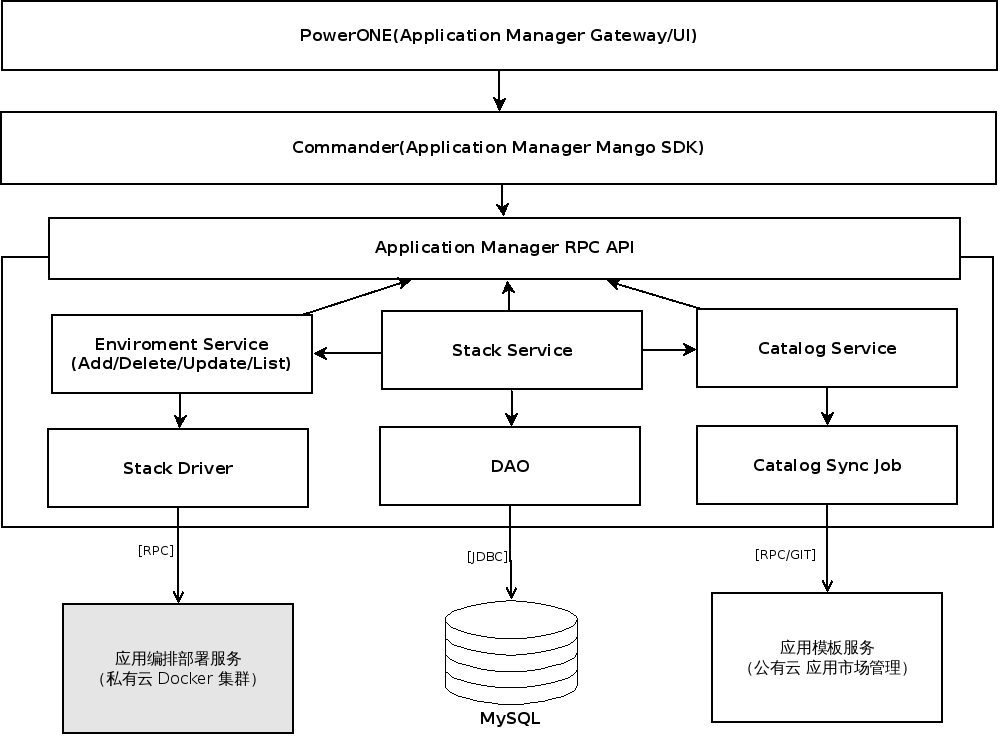
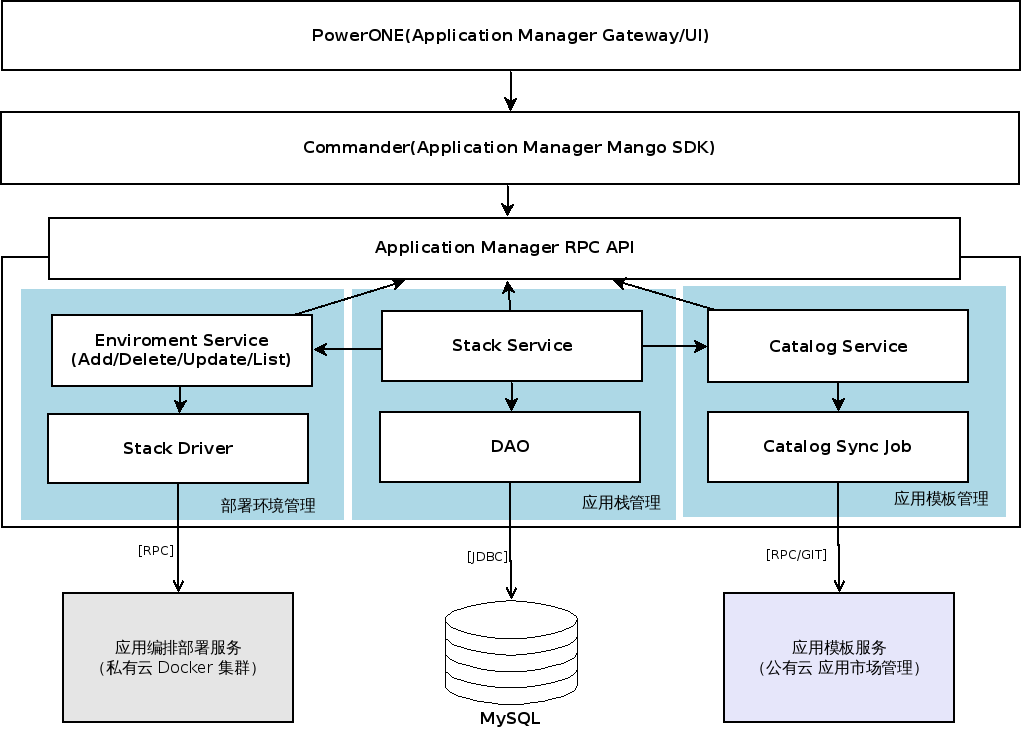
update

diff --git a/pages/dockerstudy/docker-cloud-design/README.md b/pages/dockerstudy/docker-cloud-design/README.md
@@ -18,28 +18,69 @@
 ### 功能需求
  
 1. 支持软件市场分类搜索查看；
-2. 支持软件安装、升级、卸载。
+2. 支持软件安装、升级、卸载和查询。
 
+## 概要设计
 
-## 领域模型
+### 领域模型
 
- ![app-stack-manager-architecture-model](./app-stack-manager-architecture-model.png)
+![app-stack-manager-architecture-model](./app-stack-manager-architecture-model.png)
 
-## 设计框架图
+### 设计框架图
 
 ![app-stack-manager-architecture-logical](./app-stack-manager-architecture-logical.png)
 
-### 应用创建流程图
+### 应用创建流程
 
 ![app-stack-manager-flowchart](./app-stack-manager-flowchart.png)
 
+
 ## SDK设计
+
+### 应用管理服务API设计
 
 ### ApplicationStackService
 
-```
-ApplicationStackService
+```java
+interface ApplicationStackService
+{
 
+}
+
+```
+
+### Mango SDK 设计
+Mango 层SDK 主要以满足需求为主。
+
+```java
+/* 应用模板管理*/
+class ApplicationTemplate
+{
+    public static List<ApplicationTemplate> list(ListTemplateOptions option){}
+    
+    /**
+     * 应用模板ID.
+     */
+    public getSid(){}
+
+    public getDescription(){}
+
+    /**
+     * 应用类别.
+     */
+    public getCategory(){}
+    ....
+}
+```
+
+```java
+class ApplicationStack
+{
+    public static List<ApplicationStack> list(ListStackOptions options){}
+
+    public 
+
+}
 ```
 
 ## 数据库设计
@@ -49,7 +90,12 @@ ApplicationStackService
 CREATE TABLE `caas_enviroment`(
     `id` bigint(20) NOT NULL AUTO_INCREMENT,
     `uuid` varchar(128) NOT NULL,
+    `created` datetime DEFAULT NULL,
+    `removed` datetime DEFAULT NULL,
+    `removeTime` datetime DEFAULT NULL,    
     `name` varchar(255) DEFAULT NULL,
+    `description` varchar(1024) DEFAULT NULL,
+    `state` varchar(128) NOT NULL COMMENT 'active,inactive,removed',
     `driverId` bigint(20) DEFAULT NULL,
     PRIMARY KEY (`id`),
     UNIQUE KEY `idx_caas_enviroment_uuid`(`uuid`)
@@ -58,43 +104,30 @@ CREATE TABLE `caas_enviroment`(
 CREATE TABLE `caas_stack_driver`(
     `id` bigint(20) NOT NULL AUTO_INCREMENT,
     `uuid` varchar(128) NOT NULL,
+    `created` datetime DEFAULT NULL,
+    `removed` datetime DEFAULT NULL,
+    `removeTime` datetime DEFAULT NULL,    
+    `mainClass` varchar(255) DEFAULT NULL,
+    `data` text,
     PRIMARY KEY (`id`),
     UNIQUE KEY `idx_caas_stack_driver_uuid`(`uuid`)
 );
 
-DROP TABLE IF EXISTS `load_balancer`;
-/*!40101 SET @saved_cs_client     = @@character_set_client */;
-/*!40101 SET character_set_client = utf8 */;
-CREATE TABLE `load_balancer` (
-  `id` bigint(20) NOT NULL AUTO_INCREMENT,
-  `name` varchar(255) DEFAULT NULL,
-  `account_id` bigint(20) DEFAULT NULL,
-  `kind` varchar(255) NOT NULL,
-  `uuid` varchar(128) NOT NULL,
-  `description` varchar(1024) DEFAULT NULL,
-  `state` varchar(128) NOT NULL,
-  `created` datetime DEFAULT NULL,
-  `removed` datetime DEFAULT NULL,
-  `remove_time` datetime DEFAULT NULL,
-  `data` mediumtext,
-  `global_load_balancer_id` bigint(20) DEFAULT NULL,
-  `weight` bigint(20) DEFAULT NULL,
-  `load_balancer_config_id` bigint(20) DEFAULT NULL,
-  `service_id` bigint(20) DEFAULT NULL,
-  PRIMARY KEY (`id`),
-  UNIQUE KEY `idx_load_balancer_uuid` (`uuid`),
-  KEY `fk_load_balancer__account_id` (`account_id`),
-  KEY `fk_load_balancer__global_load_balancer_id` (`global_load_balancer_id`),
-  KEY `idx_load_balancer_name` (`name`),
-  KEY `idx_load_balancer_remove_time` (`remove_time`),
-  KEY `idx_load_balancer_removed` (`removed`),
-  KEY `idx_load_balancer_state` (`state`),
-  KEY `fk_load_balancer__load_balancer_config_id` (`load_balancer_config_id`),
-  KEY `fk_load_balancer__service_id` (`service_id`),
-  CONSTRAINT `fk_load_balancer__account_id` FOREIGN KEY (`account_id`) REFERENCES `account` (`id`) ON DELETE NO ACTION ON UPDATE NO ACTION,
-  CONSTRAINT `fk_load_balancer__global_load_balancer_id` FOREIGN KEY (`global_load_balancer_id`) REFERENCES `global_load_balancer` (`id`) ON DELETE NO ACTION ON UPDATE NO ACTION,
-  CONSTRAINT `fk_load_balancer__load_balancer_config_id` FOREIGN KEY (`load_balancer_config_id`) REFERENCES `load_balancer_config` (`id`) ON DELETE NO ACTION ON UPDATE NO ACTION,
-  CONSTRAINT `fk_load_balancer__service_id` FOREIGN KEY (`service_id`) REFERENCES `service` (`id`) ON DELETE NO ACTION ON UPDATE NO ACTION
-) ENGINE=InnoDB DEFAULT CHARSET=utf8;
+
+CREATE TABLE `caas_stack`(
+    `id` bigint(20) NOT NULL AUTO_INCREMENT,
+    `uuid` varchar(128) NOT NULL,
+    `created` datetime DEFAULT NULL,
+    `updated` datetime DEFAULT NULL,
+    `removed` datetime DEFAULT NULL,
+    `removeTime` datetime DEFAULT NULL,
+    `name` varchar(255) DEFAULT NULL,    
+    `enviromentId` bigint(20) DEFAULT NULL,
+    `state` varchar(255) DEFAULT NULL COMMENT 'creating,running,stopped,removed',
+    `versionId` varchar(255) DEFAULT NULL COMMENT 'template version',
+    `data` text,
+    PRIMARY KEY (`id`),
+    UNIQUE KEY `idx_caas_stack_driver_uuid`(`uuid`)
+);
 
 ```
